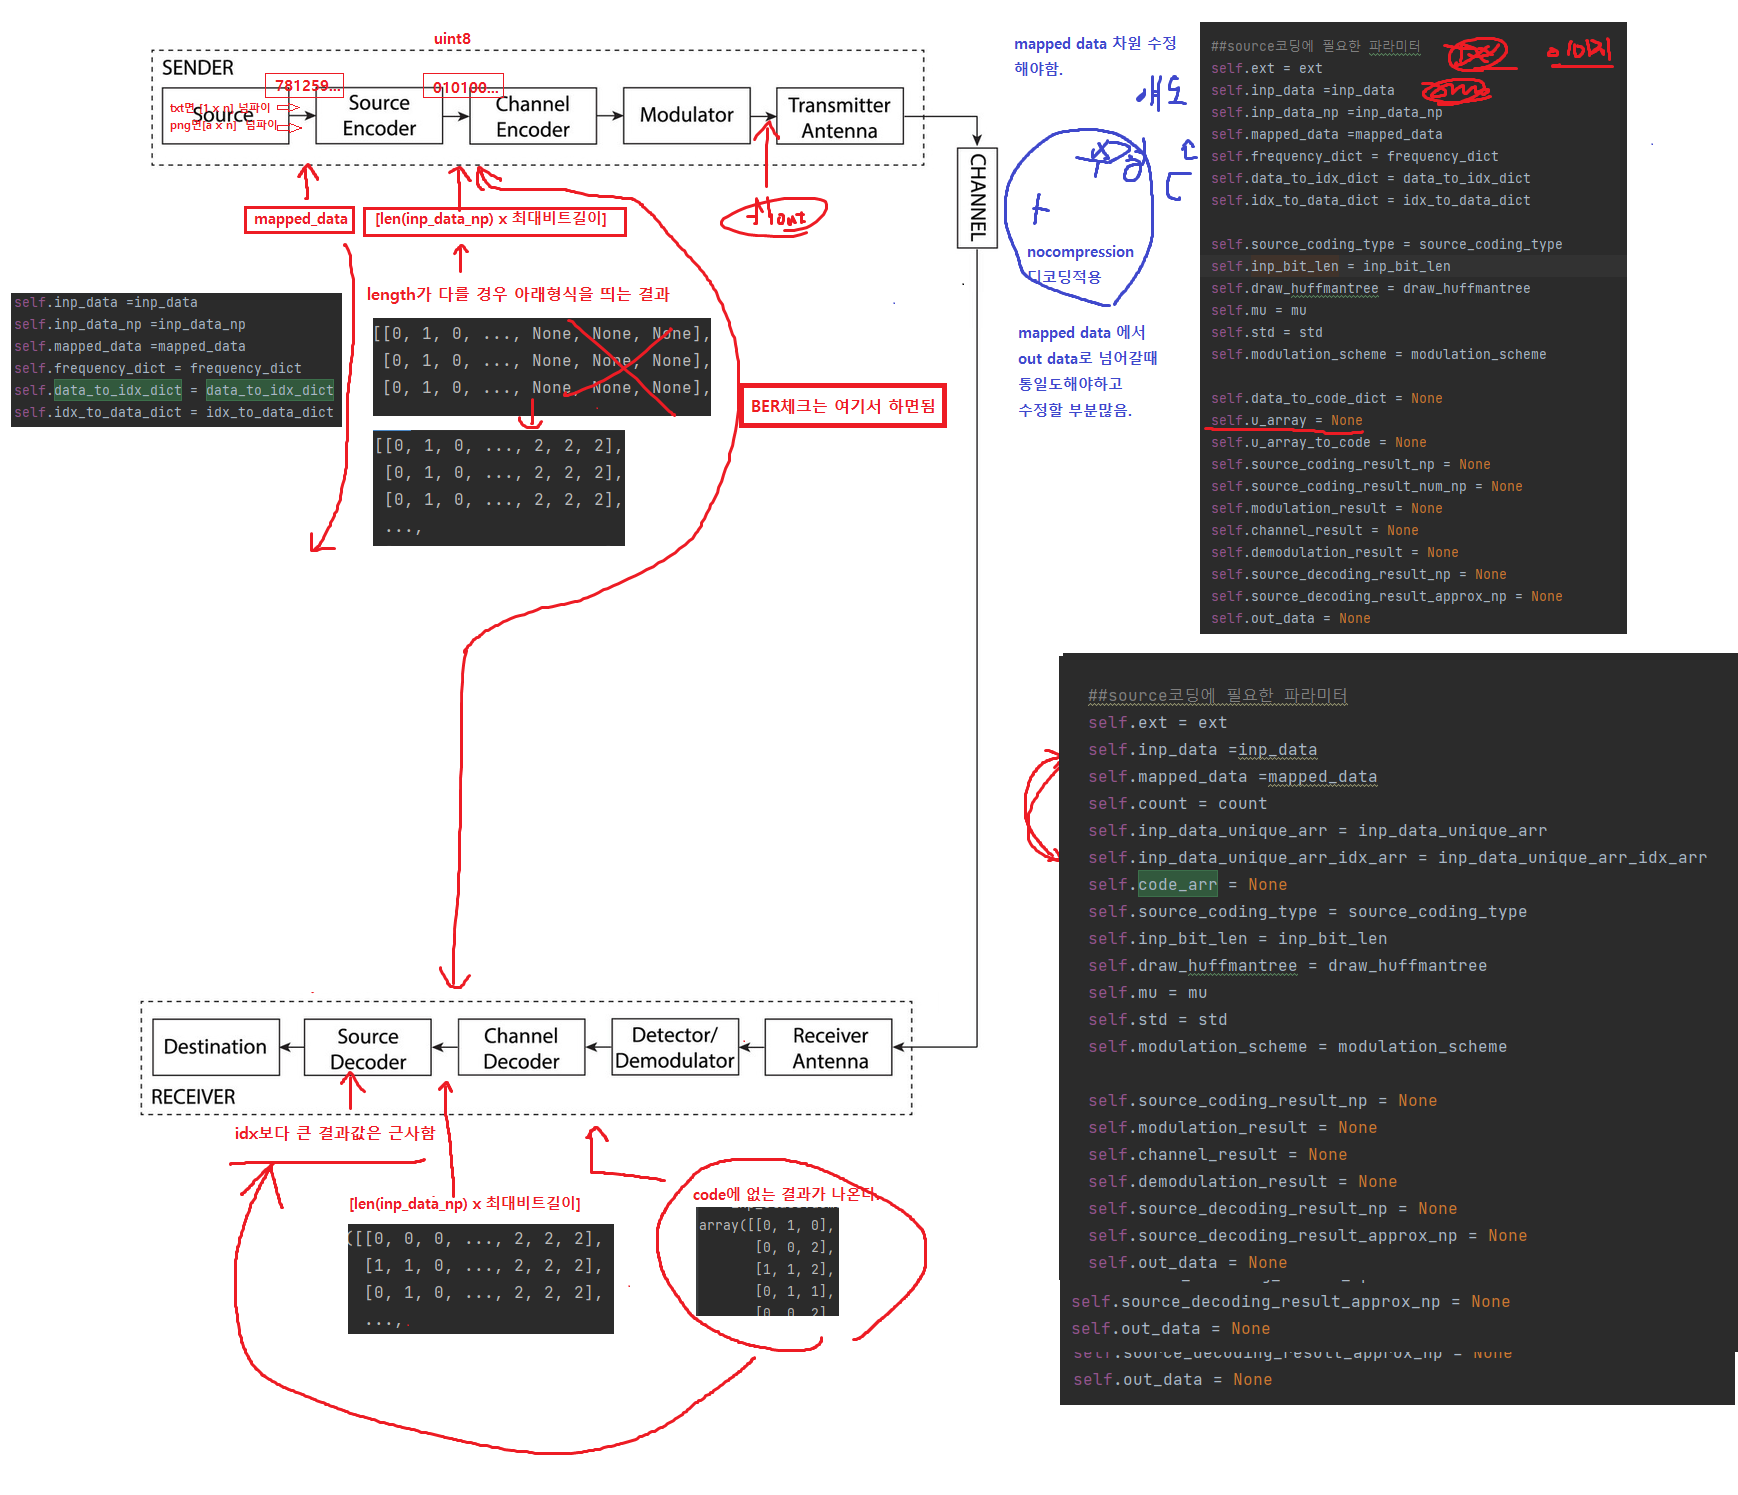
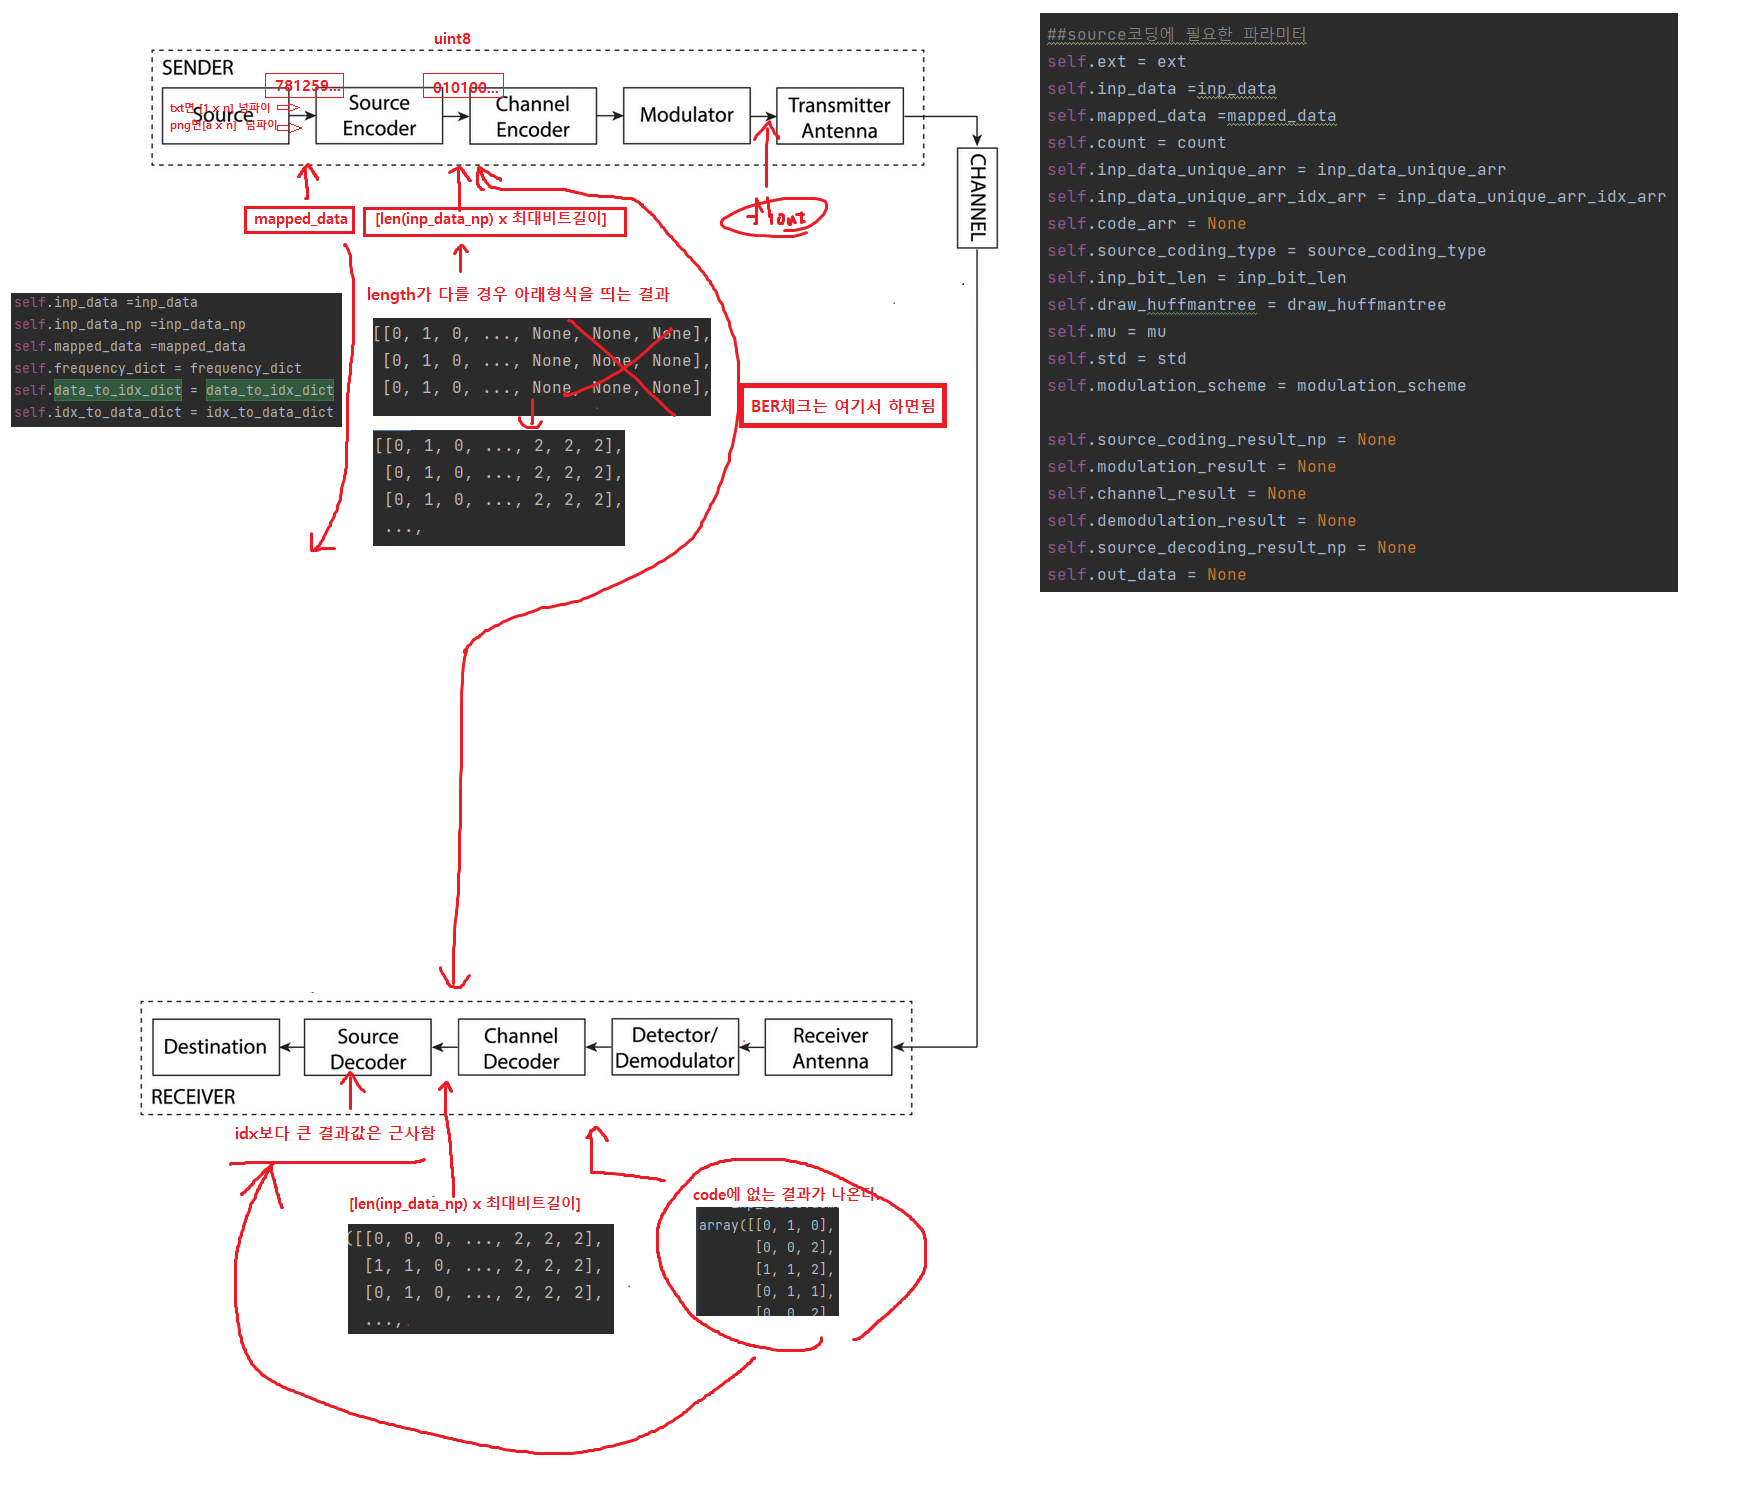
BER 코드에 추가해놓음 detection수정해야함.

Changed region(s): [[0.5903, 0.0, 1.0, 0.9538]]

diff --git a/communicationsystem.py b/communicationsystem.py
@@ -23,6 +23,7 @@ class communicationsystem:
         self.modulation_scheme = modulation_scheme
 
         self.source_coding_result_np = None
+        self.bit_num = None
         self.modulation_result = None
         self.channel_result = None
         self.demodulation_result = None
@@ -30,37 +31,30 @@ class communicationsystem:
         self.out_data = None
 
 def source_encoder(inp_class):
-    '''
-    넘파이 데이터와 각 원소의 비트수(입력안하면 가장 큰 비트로 맞춤)를 입력 받아서 [비트길이 x 1]형태의 비트 넘파이로 변환한다.
-    '''
-    ######## source_encoder
+
     if inp_class.source_coding_type == "Huffman":
         h = huffman2.HuffmanCoding(inp_class.mapped_data,inp_class.count,inp_class.inp_data_unique_arr,inp_class.inp_data_unique_arr_idx_arr , inp_class.draw_huffmantree)
-        source_coding_result_np,code_arr = h.compress()
+        source_coding_result_np,code_arr,mapped_data_to_code_bit_num = h.compress()
+        inp_class.bit_num = np.sum(mapped_data_to_code_bit_num)
     elif inp_class.source_coding_type == "NoCompression":
         inp_class.mapped_data.reshape(-1,)
         source_coding_result_np = np.unpackbits(inp_class.mapped_data.reshape(-1,1).view('uint8'), axis=1, count=inp_class.inp_bit_len,bitorder='little')  # 데이터를 바이트로 나누고 비트로 변경함
         code_arr = np.unpackbits(inp_class.inp_data_unique_arr_idx_arr.reshape(-1, 1), axis=1, count=inp_class.inp_bit_len,
                       bitorder='little')
+        inp_class.bit_num = np.sum(source_coding_result_np.size)
     else:
         raise Exception("압축 알고리즘 이름 확인 필요함.")
 
     inp_class.source_coding_result_np = source_coding_result_np
     inp_class.code_arr = code_arr
+
 def channel_coding(bit_stream):
-    '''
-        구현해야함
-    '''
     return bit_stream
 def modulation(inp_class):
-    '''
-    데이터와 비트 길이, scheme을 입력에 따라 symbol을 반환
-    '''
+
     if inp_class.modulation_scheme == "BPSK":
         inp_class.modulation_result = np.where(inp_class.source_coding_result_np == 2, np.nan, inp_class.source_coding_result_np)
         inp_class.modulation_result = np.where(inp_class.modulation_result == 0, -1, inp_class.modulation_result)
-        #inp_class.modulation_result = np.where(inp_class.source_coding_result_np == 1, 1, inp_class.source_coding_result_np)
-        #inp_class.modulation_result = np.where(inp_class.source_coding_result_np == 1, 1, inp_class.modulation_result)
     else:
         raise Exception('모듈레이션 scheme 확인필요')
 def channel_awgn(inp_class):
@@ -76,9 +70,7 @@ def demodulation(inp_class):
     else:
         raise Exception('모듈레이션 scheme 확인필요')
 def channel_decoding(bit_stream):
-    '''
-        구현해야함
-    '''
+
     return bit_stream
 def source_decoder(inp_class) :
 
@@ -87,13 +79,11 @@ def source_decoder(inp_class) :
         inp_class.source_decoding_result_np = np.zeros_like(inp_class.mapped_data)
 
         u1,v1 = np.unique((inp_class.code_arr == 2).sum(axis=1),return_inverse=True) # 2의 갯수 array, code 별 2의 갯수,
-
         u2,v2 = np.unique((inp_class.demodulation_result == 2).sum(axis=1),return_inverse=True)
 
         for i in u1: #2의 갯수가 가장작은것 부터 큰것까지 순회하겠음.
             code_idx_arr = np.where(v1 == i)[0]
             code_arr_with_2i = inp_class.code_arr[code_idx_arr].astype('int8') # 2의 갯수가 i개인 코드 어레이들 뭉탱이
-
             demodul_result_idx_arr = np.where(v2 == i)
 
             for demodul_result_idx in demodul_result_idx_arr[0]  : # 2의 갯수가 i개인 디모듈 어레이들 뭉탱이
@@ -107,18 +97,9 @@ def source_decoder(inp_class) :
 
         elif inp_class.ext == ".png":
             inp_class.out_data =inp_class.inp_data_unique_arr[inp_class.source_decoding_result_np].reshape(inp_class.inp_data.shape)
-            #u, inv = np.unique(inp_class.source_decoding_result_np, return_inverse=True)
-            #dec_res_inp_data_np = np.array([inp_class.idx_to_data_dict[idx] for idx in u])[inv].reshape(inp_class.inp_data_np.shape)  # inp_data_np
-            #inp_class.out_data = np.copy(dec_res_inp_data_np)  # inp_data
 
 
     elif inp_class.source_coding_type == "NoCompression":
-        '''
-        inp_class.source_decoding_result_np = np.zeros_like(inp_class.mapped_data)
-        for demodul_result_idx in range(inp_class.demodulation_result.size):
-            detection_result = np.argmin(np.abs(inp_class.demodulation_result[demodul_result_idx].astype('int8') - inp_class.code_arr.astype('int8')).sum(axis=1))
-            inp_class.source_decoding_result_np[demodul_result_idx] = detection_result  # mapped data 결과
-        '''
         demodulation_result = np.copy(inp_class.demodulation_result)
         source_decoding_result_np = np.packbits(demodulation_result, axis=1, bitorder='little').view(inp_class.mapped_data.dtype)
         last_idx = inp_class.inp_data_unique_arr_idx_arr[-1]
@@ -131,10 +112,6 @@ def source_decoder(inp_class) :
                 inp_class.inp_data.shape)
 
 def make_result_class(inp_file_dir,source_coding_type,draw_huffmantree,modulation_scheme,mu,std):
-    '''
-    디지털통신 시스템에 입력값을 통과시키는 함수
-    '''
-
     inp_data, mapped_data, inp_data_unique_arr,inp_data_unique_arr_idx_arr, count, bit_len, ext = read_file_func(inp_file_dir)
 
     inp_class = communicationsystem(ext, inp_data, mapped_data,inp_data_unique_arr, inp_data_unique_arr_idx_arr,count,
@@ -149,5 +126,3 @@ def make_result_class(inp_file_dir,source_coding_type,draw_huffmantree,modulatio
     source_decoder(inp_class)
 
     return inp_class
-#inp_with_noise(inp,1,8)
-

diff --git a/main_simul.py b/main_simul.py
@@ -5,17 +5,37 @@ import cv2
 
 #inp_file_dir = 'sample.txt'
 inp_file_dir = 'Lenna.png'
-#source_coding_type = "Huffman" # detection 방법이 잘못되서 전체적으로 어두운 결과가 나옴
+#source _coding_type = "Huffman" # detection 방법이 잘못되서 전체적으로 어두운 결과가 나옴
 source_coding_type = "NoCompression"
 draw_huffmantree = False      # huffman이 아니면 True여도 안그림.
 modulation_scheme = "BPSK"
 mu = 0
-std = 1
+'''
+std = np.sqrt(0.5) #SNR = 0dB
+Eb_N0 = 1/(2*std**2)
+SNR = 10*np.log10(Eb_N0)
+'''
+SNR = 2
+Eb_N0 = 10**(SNR/10)
+std = 1/np.sqrt(2*Eb_N0)
 
 result_class = communicationsystem.make_result_class(inp_file_dir,source_coding_type,draw_huffmantree,
                                                modulation_scheme, mu, std)
 
-cv2.imwrite('Test_dir/Test1.png', result_class.inp_data)
-cv2.imwrite('Test_dir/Test2.png', result_class.out_data)
+bit_num = result_class.bit_num #보내는 비트수
+err_bit_num = result_class.source_coding_result_np.size - np.count_nonzero(result_class.source_coding_result_np ==result_class.demodulation_result) #에러난 비트수
+
+BER = err_bit_num/bit_num
+print("%.2fdB, %.4f "%(SNR, BER))
+'''
+    수학적 BPSK의  BER 
+    from scipy import special
+    std = 0.5
+    0.5 - 0.5*special.erf(1/(std*np.sqrt(2)))
+'''
+# 수학적 BER(100000 -np.nonzero((0.5+np.random.normal(0,1,100000))>0)[0].size)/100000
+#result_class.inp_data, result_class.out_data
+#cv2.imwrite('Test_dir/Test1.png', result_class.inp_data)
+#cv2.imwrite('Test_dir/Test2.png', result_class.out_data)
 pass
 

diff --git a/sourceencoder/huffman2.py b/sourceencoder/huffman2.py
@@ -184,15 +184,15 @@ class HuffmanCoding:
 		self.make_codes_helper(root, current_code)
 
 	def get_encoded_np(self,):
-		code_arr = np.array([list(map(int, list(x))) + [2] * (self.max_code_len - len(x)) for a, x in
-				  sorted(self.codes.items(), key=lambda x: x[0])])
+		code_arr = np.array([list(map(int, list(x))) + [2] * (self.max_code_len - len(x)) for a, x in sorted(self.codes.items(), key=lambda x: x[0])])
+		code_num_arr = np.array([len(x) for a, x in sorted(self.codes.items(), key=lambda x: x[0])])
 
 		mapped_data_to_code = code_arr[self.mapped_data].astype('uint8')
-
+		mapped_data_to_code_bit_num = code_num_arr[self.mapped_data]
 		#inp_class.u_array_to_code = np.array([inp_class.data_to_code_dict[x] for x in inp_class.u_array], dtype='uint8')
 		#encoded_text_num = np.array([len(self.codes[x]) for x in self.inp_data_unique_arr])[inv].reshape(columned_inp.shape)
 		#encoded_text = inp_class.u_array_to_code[inv]
-		return mapped_data_to_code, code_arr
+		return mapped_data_to_code, code_arr,mapped_data_to_code_bit_num
 
 	def compress(self,):
 		self.make_heap()
@@ -203,8 +203,8 @@ class HuffmanCoding:
 			self.tree.drawTree()
 
 		#encoded_np,encoded_num_np = self.get_encoded_np()
-		encoded_np, code_arr = self.get_encoded_np()
+		encoded_np, code_arr,mapped_data_to_code_bit_num = self.get_encoded_np()
 
-		return encoded_np,code_arr
+		return encoded_np,code_arr, mapped_data_to_code_bit_num
 
 

diff --git a/read_file_func.py b/read_file_func.py
@@ -12,16 +12,17 @@ def read_file_func(inp_file_dir):
         bit_len = inp_data_unique_arr.size.bit_length()
 
         if bit_len <=8:
-            mapped_data.dtype = "uint8"
+            to_dtype = "uint8"
         elif bit_len <=16:
-            mapped_data.dtype = "uint16"
+            to_dtype = "uint16"
         elif bit_len <=32:
-            mapped_data.dtype = "uint32"
+            to_dtype = "uint32"
         elif bit_len <= 64:
-            mapped_data.dtype = "uint64"
+            to_dtype = "uint64"
         else:
             assert False, "데이터 한 원소의 비트길이가 너무 김."
 
+        mapped_data = np.array(list(mapped_data), dtype=to_dtype)
         inp_data_unique_arr_idx_arr = np.unique(mapped_data)
 
     else:

diff --git a/trans_img_simulator.py b/trans_img_simulator.py
@@ -41,7 +41,7 @@ while(True):
     if std==0 :
         SNR_txt = "infinity"
     else:
-        SNR_txt = "%.1fdB"%(10 * log10(1 / (std ** 2)))
+        SNR_txt = "%.1fdB"%(10 * log10(1 / (2 * std ^ 2)))
 
     result_class = communicationsystem.make_result_class(inp_file_dir, source_coding_type, draw_huffmantree,
                                                          modulation_scheme, mu, std)
